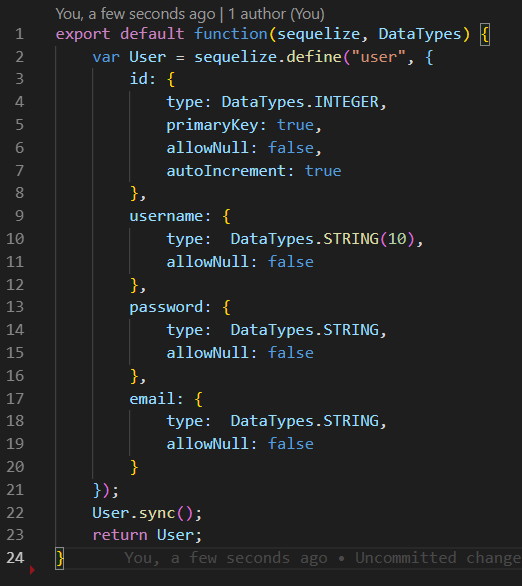
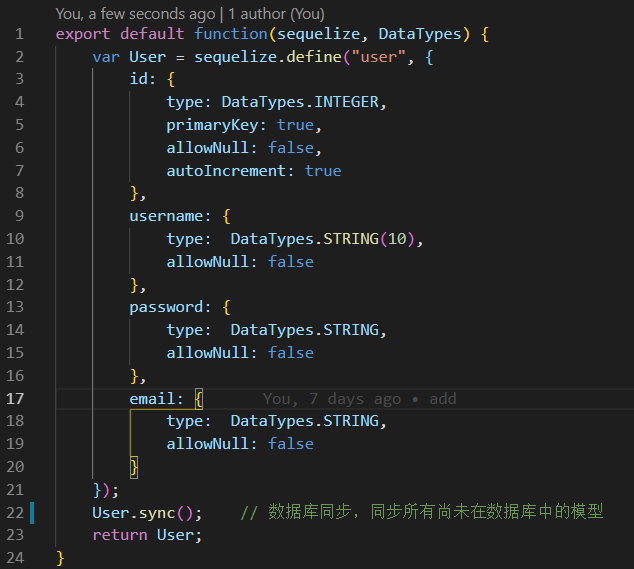
modify

diff --git a/server/models/user.js b/server/models/user.js
@@ -19,6 +19,6 @@ export default function(sequelize, DataTypes) {
             allowNull: false
         }
     });
-    User.sync();
+    User.sync();    // 数据库同步，同步所有尚未在数据库中的模型
     return User;
 }
